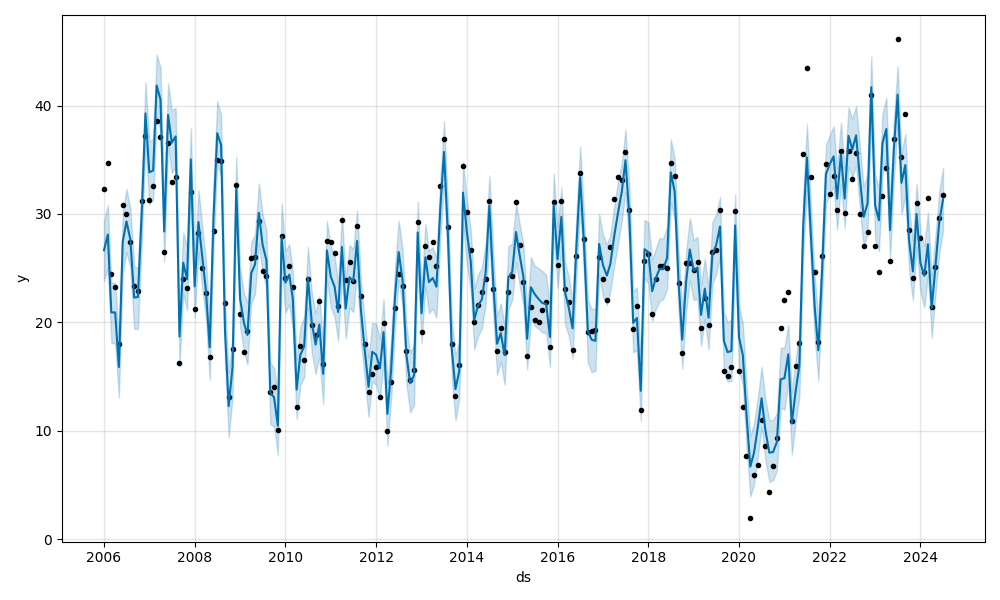
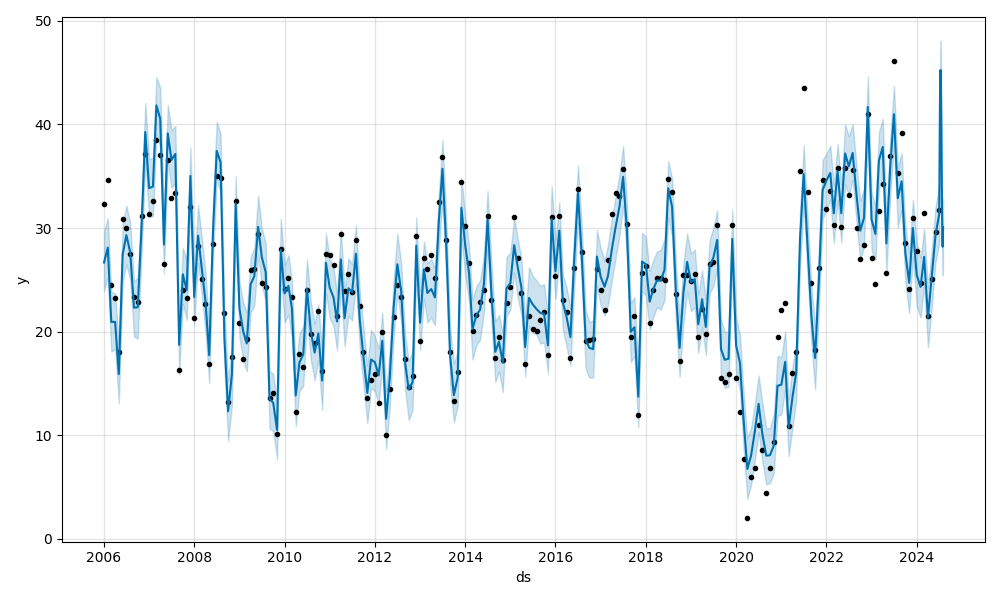
adjust future dataframe output and update graph

diff --git a/main.py b/main.py
@@ -1,12 +1,13 @@
-from data_loading import data_loading, filter_data, prepare_data, convert_to_pandas
+from src.data_loading import data_loading, filter_data, prepare_data, convert_to_pandas
 import numpy as np
 import os
 from pyspark.sql import SparkSession
-from data_visualization import plot_data_matplotlib, plot_data_d3, plot_forecast, plot_forecast_components
-from prophet_module import training_split, fb_prophet, test_split, coefficient_regressor, future_dataframe, forcast, prediction, error_calculation
-from cross_validation import run_cross_validation, calculate_performance_metrics, evaluate_model, hyperparameter_tuning
+from src.data_visualization import plot_data_matplotlib, plot_data_d3, plot_forecast, plot_forecast_components
+from src.prophet_module import training_split, fb_prophet, test_split, coefficient_regressor, future_dataframe, forcast, prediction, error_calculation
+from src.cross_validation import run_cross_validation, calculate_performance_metrics, evaluate_model, hyperparameter_tuning
 
-file_path = '/Users/alexwang/Downloads/Airline Delay Cause.csv'
+
+file_path = '/Users/alexwang/Documents/Alex_Work/JetBlue-Flight-Delay-Prediction/Data/JetBlue Delay Cause.csv'
 data = data_loading(file_path)
 
 carrier_name = 'JetBlue Airways'
@@ -36,13 +37,13 @@ print(forcast)
 prediction = prediction(forcast)
 error = error_calculation(test_set_pd, prediction)
 plot_forecast(m, forcast)
-# plot_forecast_components(m, forcast)
+plot_forecast_components(m, forcast)
 
 
-# Using cross validation to see how to refine parameters
-df_cv = run_cross_validation(model = m)
-df_p, mae, rmse = calculate_performance_metrics(df_cv)
-best_params, best_rmse = hyperparameter_tuning(training_set_pd)
-print("Best Parameters:", best_params)
-print("Best RMSE:", best_rmse)
-evaluate_model(best_params, training_set_pd)
+# # Using cross validation to see how to refine parameters
+# df_cv = run_cross_validation(model = m)
+# df_p, mae, rmse = calculate_performance_metrics(df_cv)
+# best_params, best_rmse = hyperparameter_tuning(training_set_pd)
+# print("Best Parameters:", best_params)
+# print("Best RMSE:", best_rmse)
+# evaluate_model(best_params, training_set_pd)

diff --git a/src/prophet_module.py b/src/prophet_module.py
@@ -2,7 +2,7 @@ import numpy as np
 from pyspark.sql import SparkSession
 import prophet as fbprophet
 from prophet.utilities import regressor_coefficients
-from spark_initialize import spark
+from src.spark_initialize import spark
 import pyspark.pandas as ps
 from sklearn.metrics import mean_absolute_error, mean_squared_error
 
@@ -40,9 +40,13 @@ def fb_prophet(training_set_pd):
 def coefficient_regressor(m):
     print(regressor_coefficients(m))
     
-def future_dataframe(m, df):
+def future_dataframe(m, df):    
     future = m.make_future_dataframe(periods=test_days, freq='d')
-    future = ps.merge(future, df[[ 'ds', 'arr_del15',  'weather_ct']], on='ds', how= 'inner')
+    df = df.reset_index()
+    future = ps.merge(future, df, on='ds', how= 'left')
+    future = future[['ds', 'arr_del15', 'weather_ct']]
+    future['arr_del15'].fillna(method='ffill', inplace=True) 
+    future['weather_ct'].fillna(method='ffill', inplace=True)
     return future
 
 def forcast(m, future):

diff --git a/src/data_visualization.py b/src/data_visualization.py
@@ -1,9 +1,9 @@
 import matplotlib.pyplot as plt
 import seaborn as sns
-import mpld3
-from mpld3 import plugins
-from mpld3 import plugins, fig_to_html
-from IPython.display import display, HTML
+# import mpld3
+# from mpld3 import plugins
+# from mpld3 import plugins, fig_to_html
+# from IPython.display import display, HTML
 
 
 def plot_data_matplotlib(df, x, y, title, x_label, y_label):

diff --git a/src/data_loading.py b/src/data_loading.py
@@ -1,7 +1,7 @@
 from pyspark.sql import SparkSession
 from pyspark.sql.functions import to_date, concat, col, lit, month, date_format
 import pandas as pd 
-from spark_initialize import spark
+from src.spark_initialize import spark
 
 def data_loading(file_path):
     try:
